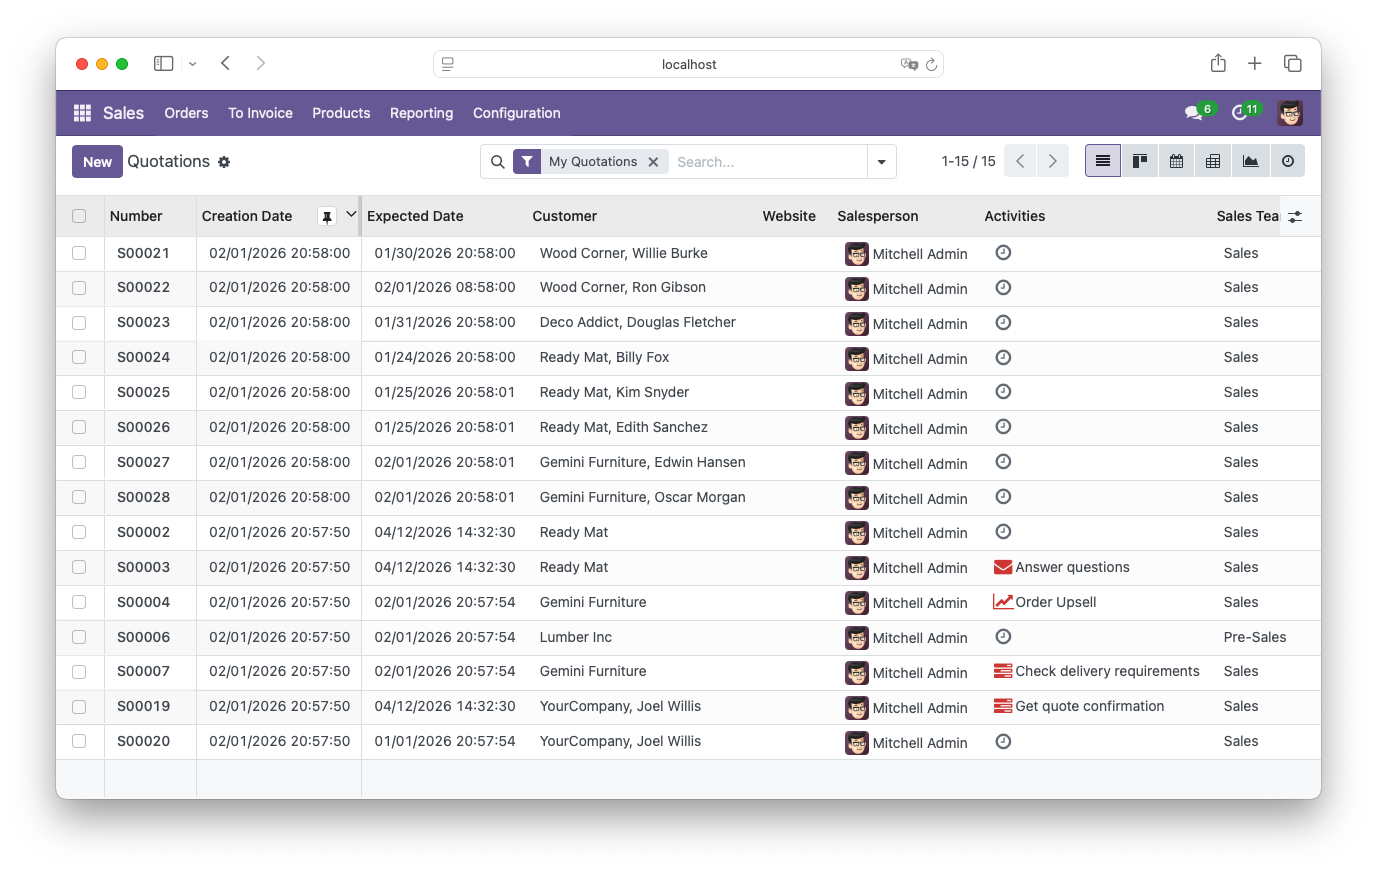
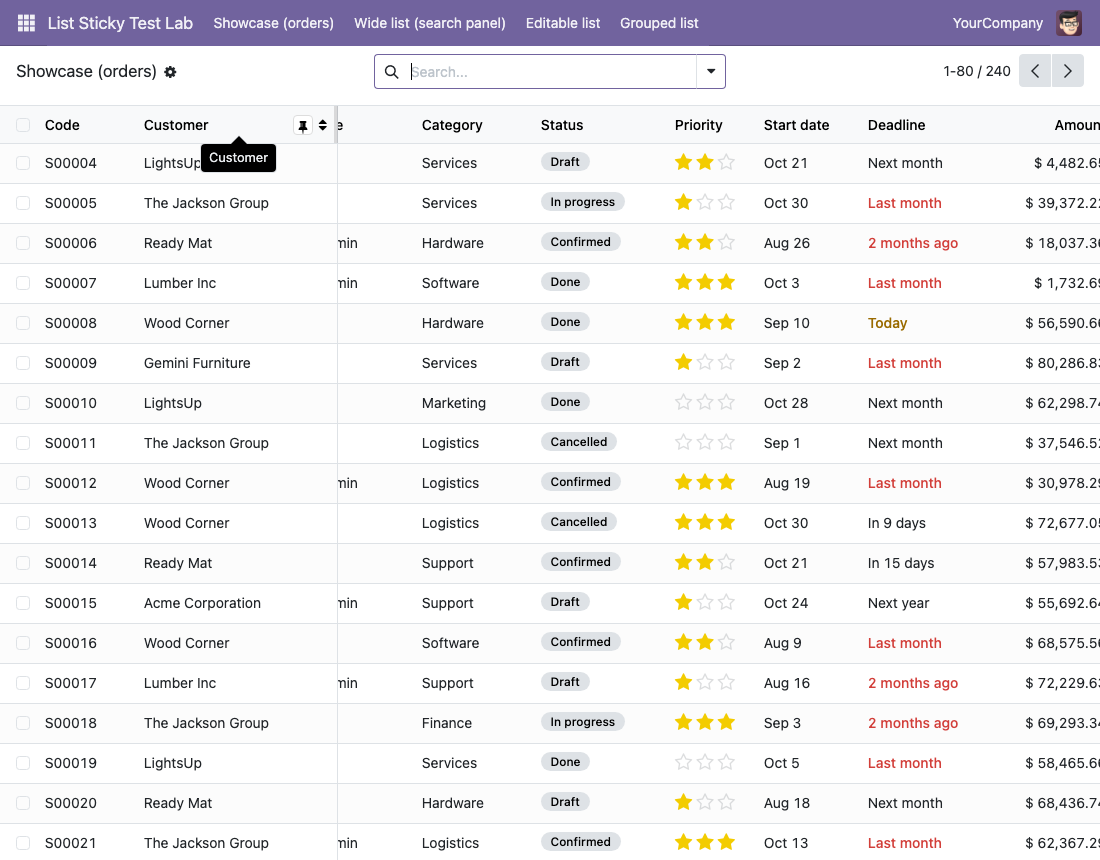
[IMP] listview_sticky_header_and_column: 19.0.0.4 - per-version demo screenshots, opaque pinned cells/headers, pin button on embedded lists; lab showcase views
Claude-Session: https://claude.ai/code/session_01MswwjzxQJzBYDNJzdTwzsA

diff --git a/listview_sticky_header_and_column/static/description/index.html b/listview_sticky_header_and_column/static/description/index.html
@@ -92,15 +92,15 @@
     </div>
 
     <h2 class="font-weight-bold mt-5 mb-3" style="font-size: 30px; color: #4A2F45;">Pin a column in any list</h2>
-    <p class="mb-4" style="font-size: 16px;">The pin button shows up when you hover a header. Here the first columns stay in place while the rest of the table scrolls.</p>
+    <p class="mb-4" style="font-size: 16px;">The pin button shows up when you hover a header. Here the Code and Customer columns stay in place while the other columns scroll, and the header row stays visible.</p>
     <div class="text-center mb-4">
-        <img src="screenshot_1.png" alt="Quotations list with the pin button on a column header and the first columns frozen" class="img-fluid rounded shadow"/>
+        <img src="screenshot_1.png" alt="Orders list with the pin button on the Customer column header and the first columns frozen while the table is scrolled" class="img-fluid rounded shadow"/>
     </div>
 
     <h2 class="font-weight-bold mt-5 mb-3" style="font-size: 30px; color: #4A2F45;">Also inside forms</h2>
-    <p class="mb-4" style="font-size: 16px;">Lists embedded in a form, such as the order lines of a quotation, can be pinned as well. Each list remembers its own pinned column.</p>
+    <p class="mb-4" style="font-size: 16px;">Lists embedded in a form, such as the order lines of an order, can be pinned as well. Each list remembers its own pinned column.</p>
     <div class="text-center mb-4">
-        <img src="screenshot_2.png" alt="Order lines list inside a sales order form with the product column pinned" class="img-fluid rounded shadow"/>
+        <img src="screenshot_2.png" alt="Order lines list inside a sales order form with the Product column pinned" class="img-fluid rounded shadow"/>
     </div>
 
     <h2 class="font-weight-bold mt-5 mb-3" style="font-size: 30px; color: #4A2F45;">Requirements &amp; Installation</h2>
@@ -132,6 +132,15 @@
 
     <h2 class="font-weight-bold mt-5 mb-3" style="font-size: 30px; color: #4A2F45;">Changelog</h2>
     <p class="mb-3" style="font-size: 16px;">Module releases, newest first.</p>
+    <div class="card mb-3"><div class="card-body">
+        <div class="row">
+            <div class="col-md-3 mb-2">
+                <h4 class="font-weight-bold mt-0 mb-1" style="font-size: 18px; color: #875A7B;">0.4</h4>
+                <p class="text-muted mb-0" style="font-size: 13px;">2026-11-05</p>
+            </div>
+            <div class="col-md-9"><p class="mb-0" style="font-size: 14px;">Pinned cells and header cells are now opaque on every version (scrolled text could show through them). The pin icon is visible again on the newest Odoo release, and the pin button appears on lists embedded in forms. Rows being edited keep their frozen columns on older versions.</p></div>
+        </div>
+    </div></div>
     <div class="card mb-3"><div class="card-body">
         <div class="row">
             <div class="col-md-3 mb-2">

diff --git a/lab/listview_sticky_test_lab/static/tests/tours/lab_tours.js b/lab/listview_sticky_test_lab/static/tests/tours/lab_tours.js
@@ -145,6 +145,8 @@ registry.category("web_tour.tours").add("lshc_lab_form_lists", {
                 Array.prototype.forEach.call(document.head.querySelectorAll(STYLE), function (s) { owners[s.getAttribute("data-owner")] = 1; });
                 check(Object.keys(owners).length === 1, "form: expected 1 owner style, got " + Object.keys(owners).length);
                 check(getComputedStyle(small.querySelector("thead th:nth-child(2)")).position !== "sticky", "form: pin leaked into the small list");
+                // pinned header cells must be opaque, or the scrolled column titles show through them
+                check(getComputedStyle(medium.querySelector("thead th:nth-child(3)")).backgroundColor !== "rgba(0, 0, 0, 0)", "form: pinned header cell is transparent");
                 check(getComputedStyle(medium.querySelector("thead th:nth-child(3)")).position === "sticky", "form: medium col not sticky");
                 // the medium list is wide: scroll horizontally inside it and check the pinned column stays at the left edge
                 var mscroll = scroller(tableOf(medium));

diff --git a/listview_sticky_header_and_column/static/src/scss/main.scss b/listview_sticky_header_and_column/static/src/scss/main.scss
@@ -24,7 +24,8 @@
   }
 }
 
-.o_list_view thead > tr > th {
+.o_list_view thead > tr > th,
+.o_list_renderer thead > tr > th {
   &:hover {
     .display-on-hover {
       display: block !important;

diff --git a/lab/listview_sticky_test_lab/tools/gen_lab.py b/lab/listview_sticky_test_lab/tools/gen_lab.py
@@ -1,5 +1,5 @@
 """Generate the listview_sticky_test_lab addon (models + views) so the field/column lists stay consistent."""
-import os, sys, textwrap
+import os, re, sys, textwrap
 
 OUT = sys.argv[1]
 os.makedirs(OUT + '/models', exist_ok=True)
@@ -265,10 +265,61 @@ search = '''    <record id="lshc_test_record_view_search" model="ir.ui.view">
     </record>
 '''
 
+SHOWLINES = MEDIUM
+SHOWLINES_W = {'name': '170px', 'product': '120px', 'partner_id': '170px', 'user_id': '150px', 'deadline': '170px', 'state': '110px'}
+SHOWCASE_W = {'code': '90px', 'partner_id': '190px', 'user_id': '150px', 'category_id': '110px', 'state': '125px', 'date_end': '125px'}
+SHOWCASE = ['code', 'partner_id', 'user_id', 'category_id', 'state', 'priority', 'date_start', 'date_end', 'currency_id', 'amount', 'amount_tax', 'amount_total', 'qty', 'progress', 'active_toggle']
+showcase_form = '''    <record id="lshc_test_record_view_form_showcase" model="ir.ui.view">
+        <field name="name">lshc.test.record.form.showcase</field>
+        <field name="model">lshc.test.record</field>
+        <field name="arch" type="xml">
+            <form string="Order">
+                <header>
+                    <field name="state" widget="statusbar" options="{'clickable': '1'}"/>
+                </header>
+                <sheet>
+                    <div class="oe_title">
+                        <h1><field name="name" placeholder="Name"/></h1>
+                    </div>
+                    <group>
+                        <group>
+                            <field name="partner_id"/>
+                            <field name="user_id"/>
+                        </group>
+                        <group>
+                            <field name="date_start"/>
+                            <field name="date_end"/>
+                        </group>
+                    </group>
+                    <notebook>
+                        <page string="Order lines" name="lines">
+%s
+                        </page>
+                        <page string="Other info" name="other">
+                            <group>
+                                <group>
+                                    <field name="category_id"/>
+                                    <field name="city"/>
+                                </group>
+                                <group>
+                                    <field name="currency_id"/>
+                                    <field name="amount_total"/>
+                                </group>
+                            </group>
+                        </page>
+                    </notebook>
+                </sheet>
+            </form>
+        </field>
+    </record>
+''' % re.sub(r'<field name="(%s)"' % '|'.join(SHOWLINES_W), lambda m: '<field name="%s" width="%s"' % (m.group(1), SHOWLINES_W[m.group(1)]),
+                 o2m('line_medium_ids', 'medium', SHOWLINES, 28, editable='bottom'))
+
 views = '<?xml version="1.0" encoding="utf-8"?>\n<odoo>\n' + list_view('lshc_test_record_view_list', 'lshc.test.record.list', ALLR) \
     + list_view('lshc_test_record_view_list_editable', 'lshc.test.record.list.editable',
                 [n for n in ALLR if n not in ('image', 'notes', 'follower_ids', 'rating_pie', 'color_hex', 'website_copy', 'datetime_due', 'score_a', 'score_b', 'score_c', 'serial', 'ref_char')],
                 editable='top') \
-    + form + search + '</odoo>\n'
+    + re.sub(r'<field name="(%s)"' % '|'.join(SHOWCASE_W), lambda m: '<field name="%s" width="%s"' % (m.group(1), SHOWCASE_W[m.group(1)]),
+             list_view('lshc_test_record_view_list_showcase', 'lshc.test.record.list.showcase', SHOWCASE).replace(' widget="CopyClipboardChar"', '')) + form + showcase_form + search + '</odoo>\n'
 open(OUT + '/views/lshc_test_views.xml', 'w').write(views)
 print('columns main list:', len(ALLR), 'editable:', len([n for n in ALLR if n not in ('image', 'notes', 'follower_ids', 'rating_pie', 'color_hex', 'website_copy', 'datetime_due', 'score_a', 'score_b', 'score_c', 'serial', 'ref_char')]), 'large line:', len(LARGE))

diff --git a/lab/listview_sticky_test_lab/models/models.py b/lab/listview_sticky_test_lab/models/models.py
@@ -139,14 +139,14 @@ class LshcTestRecord(models.Model):
     def _table_query(self):
         return self._fake_sql("""WITH ref AS (
             SELECT ARRAY(SELECT id FROM res_users WHERE active ORDER BY id) AS users,
-                   ARRAY(SELECT id FROM res_partner WHERE active ORDER BY id LIMIT 300) AS partners,
+                   ARRAY(SELECT id FROM res_partner WHERE active AND is_company AND id NOT IN (SELECT partner_id FROM res_users UNION SELECT partner_id FROM res_company) ORDER BY id LIMIT 300) AS partners,
                    ARRAY(SELECT id FROM res_country ORDER BY id LIMIT 80) AS countries,
                    (SELECT currency_id FROM res_company ORDER BY id LIMIT 1) AS currency_id
         )
         SELECT g.id AS id,
             g.id * 10 AS sequence,
-            (ARRAY['Order', 'Contract', 'Project', 'Ticket', 'Shipment', 'Invoice', 'Quote', 'Campaign'])[1 + mod(abs(hashtext(g.id::text || 'n1')), 8)] || ' ' || (ARRAY['Nguyen', 'Tran', 'Smith', 'Garcia', 'Tanaka', 'Martin', 'Silva', 'Kim', 'Rossi', 'Muller'])[1 + mod(abs(hashtext(g.id::text || 'n2')), 10)] || ' #' || g.id AS name,
-            'LAB-' || lpad(g.id::text, 5, '0') AS code,
+            (ARRAY['Quotation', 'Sales Order', 'Delivery', 'Invoice', 'Contract'])[1 + mod(abs(hashtext(g.id::text || 'n1')), 5)] || ' S' || lpad(g.id::text, 5, '0') AS name,
+            'S' || lpad(g.id::text, 5, '0') AS code,
             1 + mod(abs(hashtext(g.id::text || 'cat')), 8) AS category_id,
             (ARRAY['draft', 'confirmed', 'progress', 'done', 'cancel'])[1 + mod(abs(hashtext(g.id::text || 'st')), 5)] AS state,
             (mod(abs(hashtext(g.id::text || 'pr')), 4))::text AS priority,
@@ -263,15 +263,15 @@ class LshcTestLine(models.Model):
     def _table_query(self):
         return self._fake_sql("""WITH ref AS (
             SELECT ARRAY(SELECT id FROM res_users WHERE active ORDER BY id) AS users,
-                   ARRAY(SELECT id FROM res_partner WHERE active ORDER BY id LIMIT 300) AS partners,
+                   ARRAY(SELECT id FROM res_partner WHERE active AND is_company AND id NOT IN (SELECT partner_id FROM res_users UNION SELECT partner_id FROM res_company) ORDER BY id LIMIT 300) AS partners,
                    ARRAY(SELECT id FROM res_country ORDER BY id LIMIT 80) AS countries,
                    (SELECT currency_id FROM res_company ORDER BY id LIMIT 1) AS currency_id
         )
         SELECT g.id AS id, g.record_id AS record_id, g.kind AS kind,
             g.qty AS qty, g.price AS price, g.discount AS discount,
             g.n * 10 AS sequence,
-            (ARRAY['Order', 'Contract', 'Project', 'Ticket', 'Shipment', 'Invoice', 'Quote', 'Campaign'])[1 + mod(abs(hashtext(g.id::text || 'l1')), 8)] || ' line ' || g.n AS name,
-            (ARRAY['Desk', 'Chair', 'Lamp', 'Cable', 'Monitor', 'Keyboard', 'Router', 'Printer'])[1 + mod(abs(hashtext(g.id::text || 'l2')), 8)] || ' ' || (mod(abs(hashtext(g.id::text || 'l2n')), 900) + 100) AS product,
+            (ARRAY['Office Desk', 'Ergonomic Chair', 'Desk Lamp', 'Monitor 27 inch', 'Wireless Keyboard', 'Docking Station', 'Network Router', 'Laser Printer', 'Standing Desk', 'Meeting Table', 'Storage Cabinet', 'Webcam HD'])[1 + mod(abs(hashtext(g.id::text || 'l1')), 12)] AS name,
+            'FURN_' || (1000 + mod(abs(hashtext(g.id::text || 'l2n')), 9000)) AS product,
             round((g.qty * g.price * (1 - g.discount / 100.0))::numeric, 2) AS total,
             ref.currency_id AS currency_id,
             (ARRAY['draft', 'ok', 'late', 'cancel'])[1 + mod(abs(hashtext(g.id::text || 'ls')), 4)] AS state,

diff --git a/lab/listview_sticky_test_lab/tools/models_part.py b/lab/listview_sticky_test_lab/tools/models_part.py
@@ -25,8 +25,8 @@ RM = R + [('write_date', 'fields.Datetime()', 'Last update', {})]   # needed by 
 
 RS = {
  'sequence': "g.id * 10",
- 'name': "%s || ' ' || %s || ' #' || g.id" % (PICK(THING, 'n1'), PICK(LAST, 'n2')),
- 'code': "'LAB-' || lpad(g.id::text, 5, '0')",
+ 'name': "%s || ' S' || lpad(g.id::text, 5, '0')" % PICK(['Quotation', 'Sales Order', 'Delivery', 'Invoice', 'Contract'], 'n1'),
+ 'code': "'S' || lpad(g.id::text, 5, '0')",
  'category_id': "1 + mod(%s, 8)" % H('cat'),
  'state': PICK(['draft', 'confirmed', 'progress', 'done', 'cancel'], 'st'),
  'priority': "(mod(%s, 4))::text" % H('pr'),
@@ -78,8 +78,8 @@ RS = {
 }
 LS = {
  'sequence': "g.n * 10",
- 'name': PICK(THING, 'l1') + " || ' line ' || g.n",
- 'product': PICK(['Desk', 'Chair', 'Lamp', 'Cable', 'Monitor', 'Keyboard', 'Router', 'Printer'], 'l2') + " || ' ' || (mod(%s, 900) + 100)" % H('l2n'),
+ 'name': PICK(['Office Desk', 'Ergonomic Chair', 'Desk Lamp', 'Monitor 27 inch', 'Wireless Keyboard', 'Docking Station', 'Network Router', 'Laser Printer', 'Standing Desk', 'Meeting Table', 'Storage Cabinet', 'Webcam HD'], 'l1'),
+ 'product': "'FURN_' || (1000 + mod(%s, 9000))" % H('l2n'),
  'total': "round((g.qty * g.price * (1 - g.discount / 100.0))::numeric, 2)",
  'currency_id': "ref.currency_id",
  'state': PICK(['draft', 'ok', 'late', 'cancel'], 'ls'),
@@ -147,7 +147,7 @@ def sql_cols(specs, mapping, skip=()):
 
 REF_CTE = """WITH ref AS (
             SELECT ARRAY(SELECT id FROM res_users WHERE active ORDER BY id) AS users,
-                   ARRAY(SELECT id FROM res_partner WHERE active ORDER BY id LIMIT 300) AS partners,
+                   ARRAY(SELECT id FROM res_partner WHERE active AND is_company AND id NOT IN (SELECT partner_id FROM res_users UNION SELECT partner_id FROM res_company) ORDER BY id LIMIT 300) AS partners,
                    ARRAY(SELECT id FROM res_country ORDER BY id LIMIT 80) AS countries,
                    (SELECT currency_id FROM res_company ORDER BY id LIMIT 1) AS currency_id
         )"""

diff --git a/lab/listview_sticky_test_lab/tools/lab_tours_steps.py b/lab/listview_sticky_test_lab/tools/lab_tours_steps.py
@@ -65,6 +65,8 @@ FORM = r'''async function () {
                 Array.prototype.forEach.call(document.head.querySelectorAll(STYLE), function (s) { owners[s.getAttribute("data-owner")] = 1; });
                 check(Object.keys(owners).length === 1, "form: expected 1 owner style, got " + Object.keys(owners).length);
                 check(getComputedStyle(small.querySelector("thead th:nth-child(2)")).position !== "sticky", "form: pin leaked into the small list");
+                // pinned header cells must be opaque, or the scrolled column titles show through them
+                check(getComputedStyle(medium.querySelector("thead th:nth-child(3)")).backgroundColor !== "rgba(0, 0, 0, 0)", "form: pinned header cell is transparent");
                 check(getComputedStyle(medium.querySelector("thead th:nth-child(3)")).position === "sticky", "form: medium col not sticky");
                 // the medium list is wide: scroll horizontally inside it and check the pinned column stays at the left edge
                 var mscroll = scroller(tableOf(medium));

diff --git a/listview_sticky_header_and_column/__manifest__.py b/listview_sticky_header_and_column/__manifest__.py
@@ -12,7 +12,7 @@
     'author': "DUO-TEK Software Vietnam",
     'license': 'LGPL-3',
     'category': 'Tools',
-    'version': '19.0.0.3',
+    'version': '19.0.0.4',
     'depends': ['base', 'web'],
     'data': [],
     "images": ['static/description/banner.png', 'static/description/theme_screenshot.png'],

diff --git a/listview_sticky_header_and_column/changelog/19.0.0.4.md b/listview_sticky_header_and_column/changelog/19.0.0.4.md
@@ -1,0 +1,6 @@
+# 19.0.0.4
+
+Module `listview_sticky_header_and_column` (Odoo 19.0). Previous version: `19.0.0.3`.
+
+- The pin button shows on lists embedded in a form (`.o_list_renderer` hover rule).
+- Found with the `lab/listview_sticky_test_lab` test bed (pin + scroll checks on wide fake lists).
